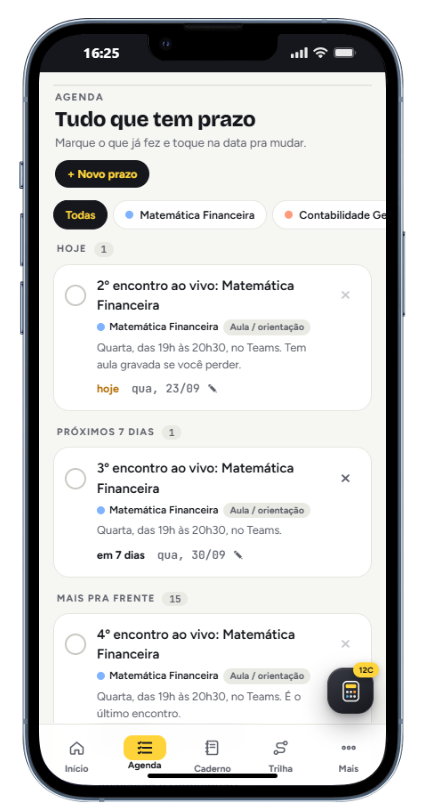
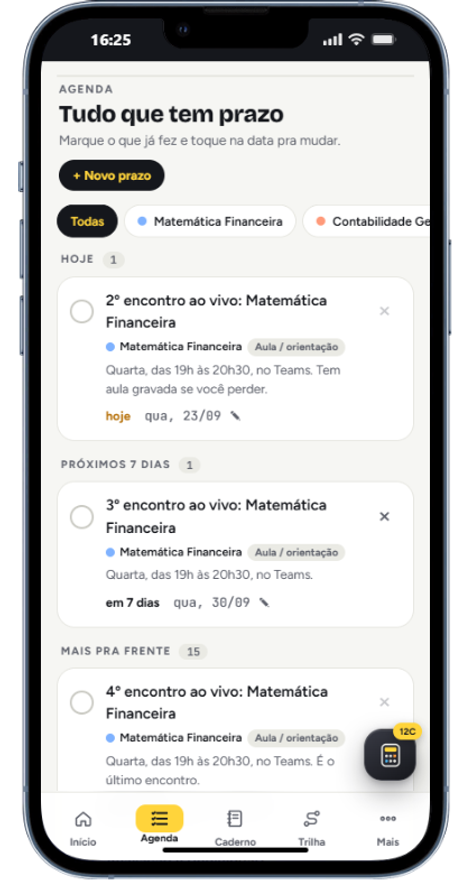
docs: iguala o tamanho das capturas e corrige o link do site
Os cinco mockups verticais vieram com sobras diferentes em volta do aparelho
-- proporcoes de 0,519 a 0,622. Como o README fixava so a largura, cada
telefone aparecia numa altura diferente e as barras inferiores nao se
alinhavam.

Agora todos passam por aparo da borda e ficam em 470x880, com o aparelho na
mesma altura. Ficam numa tabela com legenda embaixo de cada um, dizendo o que
a tela resolve.

O link do demo volta para o endereco antigo, que e o autorizado no Firebase.

Changed region(s): [[0.0309, 0.0, 0.9881, 1.0], [0.8029, 0.5857, 0.8337, 0.6165], [0.8029, 0.3391, 0.8337, 0.3699]]

diff --git a/README.md b/README.md
@@ -8,20 +8,28 @@
 ![PWA](https://img.shields.io/badge/PWA-5A0FC8?style=for-the-badge&logo=pwa&logoColor=white)
 ![Vercel](https://img.shields.io/badge/vercel-%23000000.svg?style=for-the-badge&logo=vercel&logoColor=white)
 
-🔗 **[Ver o app funcionando](https://meu-semestre-app.vercel.app)**
+🔗 **[Ver o app funcionando](https://college-organizer-app.vercel.app/)**
+
+<table align="center">
+  <tr>
+    <td align="center" width="25%"><img src="screenshots/01-inicio.png" alt="Tela inicial: próximo prazo, semana em faixa e contagem regressiva para a prova" /></td>
+    <td align="center" width="25%"><img src="screenshots/02-agenda.png" alt="Agenda com prazos agrupados por urgência" /></td>
+    <td align="center" width="25%"><img src="screenshots/04-trilha.png" alt="Trilha de aprendizagem com progresso por unidade" /></td>
+    <td align="center" width="25%"><img src="screenshots/03-caderno.png" alt="Caderno com notas em texto e folhas à mão" /></td>
+  </tr>
+  <tr>
+    <td align="center"><sub><b>Início</b><br/>o que vem primeiro</sub></td>
+    <td align="center"><sub><b>Agenda</b><br/>prazos por urgência</sub></td>
+    <td align="center"><sub><b>Trilha</b><br/>progresso da disciplina</sub></td>
+    <td align="center"><sub><b>Caderno</b><br/>texto e folhas à mão</sub></td>
+  </tr>
+</table>
 
 <p align="center">
-  <img src="screenshots/01-inicio.png" width="24%" alt="Tela inicial: próximo prazo, semana em faixa e contagem para a prova" />
-  <img src="screenshots/02-agenda.png" width="24%" alt="Agenda com prazos agrupados por urgência" />
-  <img src="screenshots/04-trilha.png" width="24%" alt="Trilha de aprendizagem com progresso por unidade" />
-  <img src="screenshots/03-caderno.png" width="24%" alt="Caderno com notas em texto e folhas à mão" />
+  <img src="screenshots/06-calculadora-12c.png" width="85%" alt="Calculadora HP-12C em notação RPN, aberta na horizontal por cima do app" />
+  <br/>
+  <sub><b>Calculadora 12C</b> — abre por cima de qualquer tela, sem perder o que estava sendo feito</sub>
 </p>
-
-<p align="center">
-  <img src="screenshots/06-calculadora-12c.png" width="88%" alt="Calculadora HP-12C em RPN, aberta em tela cheia na horizontal" />
-</p>
-
-<p align="center"><em>A calculadora 12C abre por cima de qualquer tela, sem perder o que estava sendo feito.</em></p>
 
 ---
 
